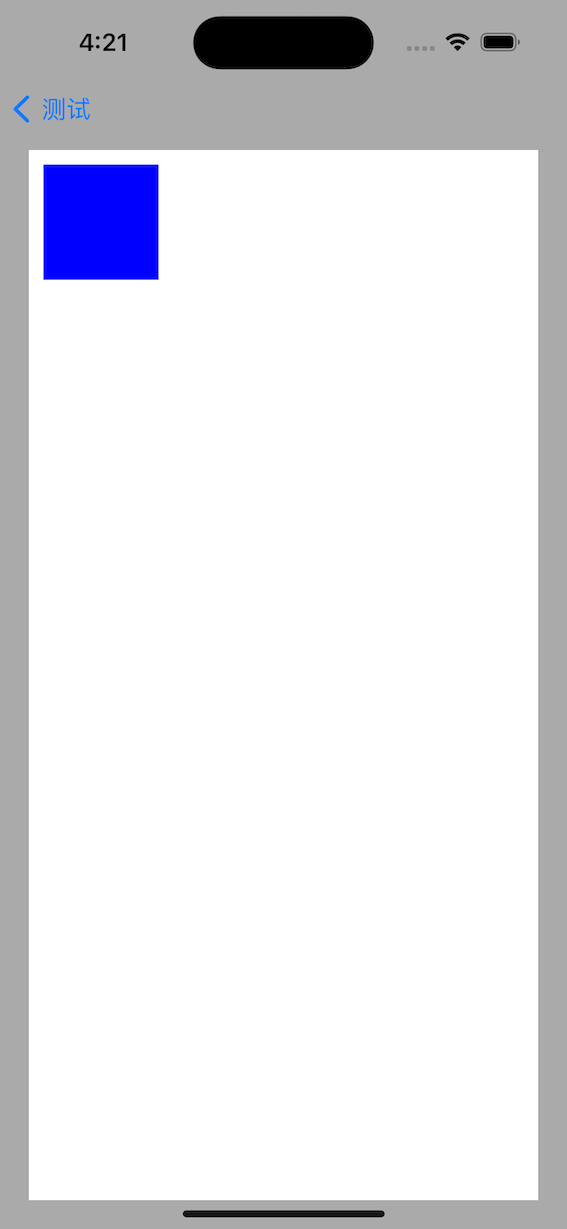
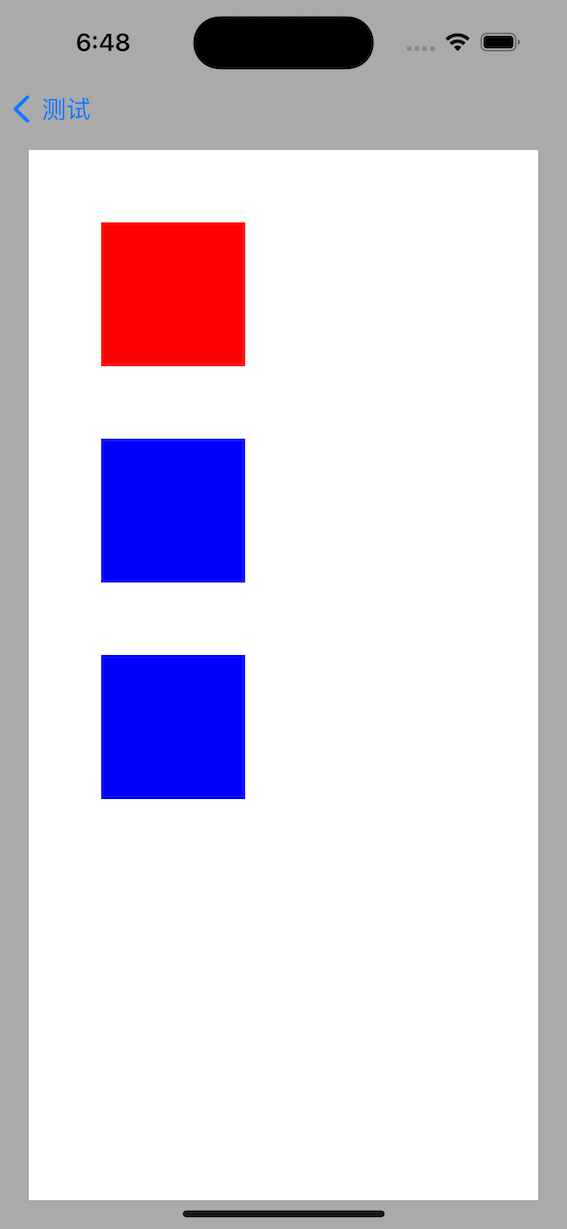
feat：修改UIBezierPath

diff --git a/source/_posts/iOS/UIBezierPath.md b/source/_posts/iOS/UIBezierPath.md
@@ -774,14 +774,18 @@ iOS 支持两套图形API族：
 - (void)drawRect:(CGRect)rect {
     // 设置填充色：红色
     [[UIColor redColor] setFill];
+    // 设置填充范围
+    UIRectFill(CGRectMake(50, 50, 100, 100));
     // 把context压入栈中，并把context设置为当前绘图上下文
     UIGraphicsPushContext(UIGraphicsGetCurrentContext());
     // 设置填充色：蓝色
     [[UIColor blueColor] setFill];
+    // 设置填充范围
+    UIRectFill(CGRectMake(50, 200, 100, 100));
     // 将栈顶的上下文弹出，恢复先前的上下文，但是绘图状态不变
     UIGraphicsPopContext();
     // 设置填充范围
-    UIRectFill(CGRectMake(10, 10, 80, 80));
+    UIRectFill(CGRectMake(50, 350, 100, 100));
 }
 ```
 
@@ -793,14 +797,18 @@ iOS 支持两套图形API族：
 - (void)drawRect:(CGRect)rect {
     // 设置填充色：红色
     [[UIColor redColor] setFill]; // red
+    // 设置填充范围
+    UIRectFill(CGRectMake(50, 50, 100, 100));
     // 保存状态
     CGContextSaveGState(UIGraphicsGetCurrentContext()); // red
     // 设置填充色：蓝色
     [[UIColor blueColor] setFill]; // blue
-    // 回复状态
+    // 设置填充范围
+    UIRectFill(CGRectMake(50, 200, 100, 100));
+    // 恢复状态
     CGContextRestoreGState(UIGraphicsGetCurrentContext()); // red
     // 设置填充范围
-    UIRectFill(CGRectMake(10, 10, 80, 80)); // red
+    UIRectFill(CGRectMake(50, 350, 100, 100)); // red
 }
 ```
 
@@ -816,29 +824,27 @@ iOS 支持两套图形API族：
 
 有两种获取上下文的常用方法：
 
-一、创建一个图片类型的上下文
+一、重载 UIView 的 `- (void)drawRect:(CGRect)rect` 方法，利用 Cocoa 自动生成的上下文
 
-1. 调用 `UIGraphicsBeginImageContext()` 或 `UIGraphicsBeginImageContextWithOptions()` 函数可以获得处理图片的图形上下文。
-
-2. 调用 `UIGraphicsGetImageFromCurrentImageContext()` 函数可以从画布（上下文）中获取一个 UIImag 对象。
-
-3. 调用 `UIGraphicsEndImageContext()` 函数关闭图形上下文。
-
-二、利用 Cocoa 自动生成的上下文（`drawRect:`方法）。
-
-1. 子类化 UIView 并实现 `drawRect:`` 方法，一旦 `drawRect:`` 方法被调用，Cocoa 就会创建一个图形上下文。
+1. 子类化 `UIView` 并实现 `drawRect:` 方法，一旦 `drawRect:` 方法被调用，Cocoa 就会创建一个图形上下文；
 
 2. 调用 `UIGraphicsGetCurrentContext()` 函数，获取到当前的图形上下文；
 
-3. 进行绘图操作，所有操作都会显示在当前上下文对应的 UIView 上。
+3. 进行绘图操作，所有操作都会显示在当前上下文对应的 UIView 上；
 
-### 思考：UIView 和上下文是什么关系❓
+4. 重绘：`setNeedDisplay`。
 
+二、创建一个图片类型的上下文
 
+1. 调用 `UIGraphicsBeginImageContext()` 或 `UIGraphicsBeginImageContextWithOptions()` 函数可以获得处理图片的图形上下文；
+
+2. 调用 `UIGraphicsGetImageFromCurrentImageContext()` 函数可以从画布（上下文）中获取一个 UIImag 对象；
+
+3. 调用 `UIGraphicsEndImageContext()` 函数关闭图形上下文。
 
 ### UIGraphicsBeginImageContext
 
-在 `drawRect:` 方法外完成绘图操作：
+在 `drawRect:` 方法**外**完成绘图操作：
 
 ```js
 - (void)withoutDrawRect {
@@ -874,8 +880,262 @@ iOS 支持两套图形API族：
 
 这里使用 `UIGraphicsBeginImageContext()` 方法，完成了在 `drawRect:` 方法外绘图的操作。
 
-## 其它
+## Core Animation
 
-先关文档：
+### CALayer
+
+一、重载 CALayer 的 `- (void)drawInContext:(CGContextRef)ctx` 方法，利用 Cocoa 自动生成的上下文
+
+1. 子类化 `CALayer` 并实现 `- (void)drawInContext:(CGContextRef)ctx` 方法，一旦 `- (void)drawInContext:(CGContextRef)ctx` 方法被调用，Cocoa 就会创建一个图形上下文；
+
+2. 调用 `UIGraphicsGetCurrentContext()` 函数，获取到当前的图形上下文；
+
+3. 进行绘图操作，所有操作都会显示在当前上下文对应的 UIView 上；
+
+4. 重绘：`setNeedDisplay`。
+
+因为 `- (void)drawInContext:(CGContextRef)ctx` 方法内部会调用 CALayerDelegate 协议中的 `-drawLayer:inContext:` 方法，所以也可以实现`-drawLayer:inContext:` 方法获取到当前上下文。
+
+```js
+/* If defined, called by the default implementation of -drawInContext: */
+
+- (void)drawLayer:(CALayer *)layer inContext:(CGContextRef)ctx;
+```
+
+### CAShapeLayer
+
+`CAShapeLayer` 是一个通过矢量图形而不是 bitmap（位图）来绘制的图层子类。可以设置颜色和线宽，用 `CGPath` 定义图形，让 `CAShapeLayer` 自动渲染出来。先比用 Core Graphics 直接向原始的 CALayer 的内容中绘制路径，使用 CAShapeLayer 有四点优势：
+
+1. 渲染快速。
+2. 高效使用内存。
+3. 不会被图层边界剪裁掉。
+4. 不会出现像素化。
+
+`CAShapeLayer` 可以绘制所有能够通过 CGPath 来表示的形状。这个形状不一定要闭合，图层路径也不一定要不间断，可以在一个图层上绘制好几个不同的形状。
+
+`CAShapeLayer` 有图形属性，如 `lineWidth`（线宽，用点表示单位），`lineCap`（线条结尾的样子），和 `lineJoin`（线条之间的结合点的样子）等等。
+
+在图层层面，只有一次机会设置这些属性，如果想用不同颜色或风格来绘制多个形状，就不得不为每个形状准备一个图层了。 
+
+### CAShapeLayer & Core Graphics
+
+术语**绘图**通常在 Core Animation 的上下文中指代软件绘图，即不由 GPU 协助的绘图。在 iOS 中，软件绘图通常是由 Core Graphics 框架完成。但是，在一些必要的情况下，Core Graphics 要比 Core Animation 和 OpenGL 慢很多。
+
+软件绘图不仅效率低，而且还会消耗较大的内存。一旦实现了 CALayerDelegate 协议中的 -drawLayer:inContext: 方法或者 UIView 中的 -drawRect: 方法（对前者的包装），图层就会创建一个绘制上下文，这个上下文需要的内存大小如下，宽高的单位是**像素**：
+
+```js
+上下文大小 = 图层宽 * 图层高 * 4字节
+```
+
+对于一个在 Retina iPad 上的全屏图层来说，这个内存量就是 `2048 * 1526 * 4 字节 = 12MB`。图层每次重绘的时候都需要**重新抹掉内存然后重新分配**。
+
+软件绘图的代价昂贵，除非绝对必要，应该避免重绘视图。
+
+而提高绘制性能的秘诀就是避免绘制，如使用 CAShapeLayer 代替 Core Graphics。
+
+### 显示的大致流程
+
+1. **布局** - 准备视图/图层的层级关系，以及设置图层属性（位置，背景色，边框等）的阶段；
+2. **显示** - 绘制图层的寄宿图的阶段。绘制有可能涉及到 UIView 的 -drawRect: 和 CALayer 的 -drawLayer:inContext: 方法的调用路径；
+3. **准备** - Core Animation 准备发送数据到渲染服务的阶段；
+4. **光栅化** - 对所有的图层属性计算中间值，设置 OpenGL 几何形状（纹理化的三角形）来执行渲染；
+5. **渲染** - 在屏幕上渲染可见的三角形。
+
+### UIView - CALayer - Core Graphics
+
+![24](../iOS/UIBezierPath/24.png)
+
+* 继承关系：`UIView —> UIResponder —> NSObject`，`CALayer —> NSObject`。
+
+* 响应时间：因为 UIView 继承自 UIResponder，所以 UIView 可以响应时间。因为 CALayer 继承自 NSObject，所以 CALayer 不能响应事件。
+
+* 框架：UIView 在 UIKit 框架中定义，用来构建界面、响应事件。CALayer 在 QuartzCore 框架中定义，绘制 2D 图像。
+
+* 寄宿图：即图层中包含的图。UIView 内部联图了一个 CALayer 图层，即 backing layer。CALayer 内部包含一个 content 属性指向一块缓冲区，即 backing store，里面存放位图（bitmap）。iOS 中奖缓存区的图片称为寄宿图。寄宿图有两种设置方式：1、想 content 设置 CGImage 图片，这需要以来 Core Image 提供图片；2、实现 UIView 的 drawRect: 方法自定义绘图，这需要依赖 Core Graphics 绘制图形，再由 CALayer 生成图片。
+
+* UIView 的显示原理：CALayer 会创建一个图形上下文（CGContextRef），然后调用 CALayerDelegate 协议（这里是 UIView 实现）的 `-drawLayer:inContext:` 方法，传入创建好的图形上下文（CGContextRef）对象，在 `-drawLayer:inContext:` 方法内部再调用 UIView 的 `-drawRect:` 方法。
+
+## 应用
+
+### 虚线圆形
+
+问题：因为在设置虚线的线段长度和间隙长度时会不等于周长，所以就会出现虚线的尾部和头部的结合部分不匀称。
+
+解决方案：通过计算得到实际的间隙长度，代替期望的间隙长度。
+
+1. 半径 * M_PI * 2.0 = 周长；
+2. 周长 / (线段长度 + 期望间隙长度) = 线段数量；
+3. (周长 / 线段数量) - 线段长度 = 实际间隙长度；
+
+```js
+// 虚线圆
+- (void)setDashedLineCirclePath:(CGRect)frame fill:(UIColor *)fillColor stroke:(UIColor *)strokeColor {
+    // 虚线直径
+    CGFloat dotDiameter = self.xAxisDashDotDiameter;
+    // 期望的虚线间隙
+    CGFloat expDotSpacing = self.xAxisDashExpDotSpacing;
+    // 圆的大小
+    CGSize s = frame.size;
+    // 圆圈的半径，计算方式为，宽度或高度的一半（以较小者为准）减去点半径。
+    CGFloat radius = (s.width < s.height) ? s.width*0.5-dotDiameter*0.5 : s.height*0.5-dotDiameter*0.5;
+    // 周长
+    CGFloat circum = M_PI*radius*2.0;
+    // 虚线数量
+    NSUInteger numberOfDots = round(circum/(dotDiameter+expDotSpacing));
+    // 计算出的点间距，由周长除以点的数量减去点的直径得出。
+    CGFloat dotSpacing = (circum/numberOfDots)-dotDiameter;
+    // 圆形路径-以层的中心为中心，从弧的顶部开始。
+    UIBezierPath* path = [UIBezierPath bezierPathWithArcCenter:(CGPoint){frame.origin.x + s.width*0.5, frame.origin.y + s.height*0.5} radius:radius startAngle:-M_PI*0.5 endAngle:M_PI*1.5 clockwise:YES];
+    // 每个点的直径
+    path.lineWidth = dotDiameter;
+    // 点的形状
+    path.lineCapStyle = kCGLineCapSquare;
+    // 填充线段的长度（根据线宽计算的半径），点直径加上未填充线段的点间距
+    CGFloat dash[] = {0.0, dotSpacing+dotDiameter};
+    [path setLineDash:dash count:2 phase:0];
+    // 填充色
+    if (fillColor) {
+        [fillColor set];
+        [path fill];
+    }
+    // 线框色
+    if (strokeColor) {
+        [strokeColor setStroke];
+        [path stroke];
+    }
+}
+```
+
+![21](../iOS/UIBezierPath/21.png)
+
+### 渐变多边形
+
+```js
+- (void)setYAxisLayer:(NSArray *)series {
+    CGFloat max_r = self.bounds.size.width * 0.5;
+    CGFloat r = max_r;
+    CGFloat x = 0;
+    CGFloat y = 0;
+    CGFloat angle = 360.0 / series.count;
+    
+    CGFloat top  = max_r * 2.0;
+    CGFloat bottom = 0;
+    
+    NSMutableArray *dotPointArray = [NSMutableArray arrayWithCapacity:series.count];
+    UIBezierPath *path = [UIBezierPath bezierPath];
+    for (int i = 0; i < series.count; i++) {
+        NSNumber *num = series[i];
+        CGFloat radian = kDegreesToRadian(angle * i);
+        r = (num.floatValue / self.maxValue) * max_r;
+        r = MIN(r, max_r);
+        x = max_r + sinf(radian) * r;
+        y = max_r - cosf(radian) * r;
+        CGPoint p = CGPointMake(x, y);
+        if (i == 0) {
+            [path moveToPoint:p];
+        } else {
+            [path addLineToPoint:p];
+        }
+        [dotPointArray addObject:[NSValue valueWithCGPoint:p]];
+        
+        top  = top < y ? top : y;
+        bottom = bottom > y ? bottom : y;
+    }
+    path.lineWidth = 1.0;
+    [path closePath];
+    [path stroke];
+    
+    CAShapeLayer *layer = [[CAShapeLayer alloc] init];
+    layer.strokeColor = vkColorFromHex(self.yAxisHex).CGColor;
+    layer.fillColor = vkColorFromHex(self.yAxisHex).CGColor;
+    layer.path = path.CGPath;
+    
+    CGFloat color01 = top / (max_r * 2.0);
+    CGFloat color02 = bottom / (max_r * 2.0);
+    // gLayer 的坐标从 layer 的 (0, 0) 点开始
+    CAGradientLayer *gLayer = [CAGradientLayer layer];
+    gLayer.frame = self.bounds;
+    gLayer.locations = @[@(color01), @(color02)];
+    gLayer.colors = @[(__bridge id)vkColorFromHex(self.yAxisHex).CGColor,
+                      (__bridge id)[UIColor colorWithHex:self.yAxisHex alpha:0.24].CGColor];
+    gLayer.startPoint = CGPointMake(0.5, 0);
+    gLayer.endPoint = CGPointMake(0.5, 1);
+    gLayer.mask = layer;
+    [self.layer addSublayer:gLayer];
+    
+    CAShapeLayer *lineLayer = [[CAShapeLayer alloc] init];
+    lineLayer.strokeColor = vkColorFromHex(self.yAxisHex).CGColor;
+    lineLayer.fillColor = [UIColor clearColor].CGColor;
+    lineLayer.path = path.CGPath;
+    lineLayer.lineWidth = 1.0;
+    // 角过尖锐的话，会超出UI范围
+    lineLayer.lineCap = @"bevel"; //线条拐角
+    lineLayer.lineJoin = @"bevel"; //终点处理
+    [self.layer addSublayer:lineLayer];
+    
+    for (NSValue *value in dotPointArray) {
+        CGPoint textPoint = value.CGPointValue;
+        [self setDotLayer:textPoint];
+    }
+}
+```
+
+![22](../iOS/UIBezierPath/22.png)
+
+### 提示框
+
+```swift
+override func draw(_ rect: CGRect) {
+    // 圆角
+    let r = 8.0
+    // 箭头高度
+    let offset = 10.0
+    // 箭头位置
+    let positionNum = rect.size.width / 2.0
+    // 移动量（坐标点）
+    let changeNum = r + offset
+    // 划线 长 宽
+    let w = rect.size.width
+    let h = rect.size.height
+    
+    // 获取文本
+    let context = UIGraphicsGetCurrentContext()!
+    // 边框宽度
+    context.setLineWidth(1.5);
+    // 边框颜色
+    context.setStrokeColor(UIColor(hex6: 0x272733).cgColor)
+    // 填充颜色
+    context.setFillColor(UIColor.clear.cgColor)
+    
+    // 开始坐标【左上角】（r, offset）
+    context.move(to: CGPoint(x: r, y: offset))
+    
+    // 向右划线 (r, offset) + (positionNum - 10, h - offset)
+    context.addLine(to: CGPoint(x: positionNum - 10, y: offset))
+    // 向右上划线 (positionNum - 10, offset) + (positionNum, 0)
+    context.addLine(to: CGPoint(x: positionNum, y: 0))
+    // 向右下划线 (positionNum, 0) + (positionNum + 10, offset)
+    context.addLine(to: CGPoint(x: positionNum + 10, y: offset))
+    
+    // 【右上角】设置弧线，三个点组成的直角：(r, offset) + (w, offset) + (w, r + offset)
+    context.addArc(tangent1End: CGPoint(x: w, y: offset), tangent2End: CGPoint(x: w, y: changeNum), radius: r)
+    // 【右下角】设置弧线，三个点组成的直角：(w, r + offset) + (w, h) + (w - r, h)
+    context.addArc(tangent1End: CGPoint(x: w, y: h), tangent2End: CGPoint(x: w - r, y: h), radius: r)
+    // 【左下角】设置弧线，三个点组成的直角：(w - r, h) + (0, h) + (0, h - r)
+    context.addArc(tangent1End: CGPoint(x: 0, y: h), tangent2End: CGPoint(x: 0, y: h - r), radius: r)
+    // 【左上角】设置弧线，三个点组成的直角：(0, h - r) + (0, offset) + (r, offset)
+    context.addArc(tangent1End: CGPoint(x: 0, y: offset), tangent2End: CGPoint(x: r, y: offset), radius: r)
+    
+    // 根据坐标绘制路径
+    context.drawPath(using: .fillStroke)
+    
+    super.draw(rect)
+  }
+```
+
+![23](../iOS/UIBezierPath/23.png)
+
+相关文档：
 
 1. [iOS绘图教程](https://www.cnblogs.com/xdream86/archive/2012/12/12/2814552.html)
+2. [iOS-Core-Animation-Advanced-Techniques](https://github.com/qunten/iOS-Core-Animation-Advanced-Techniques)
